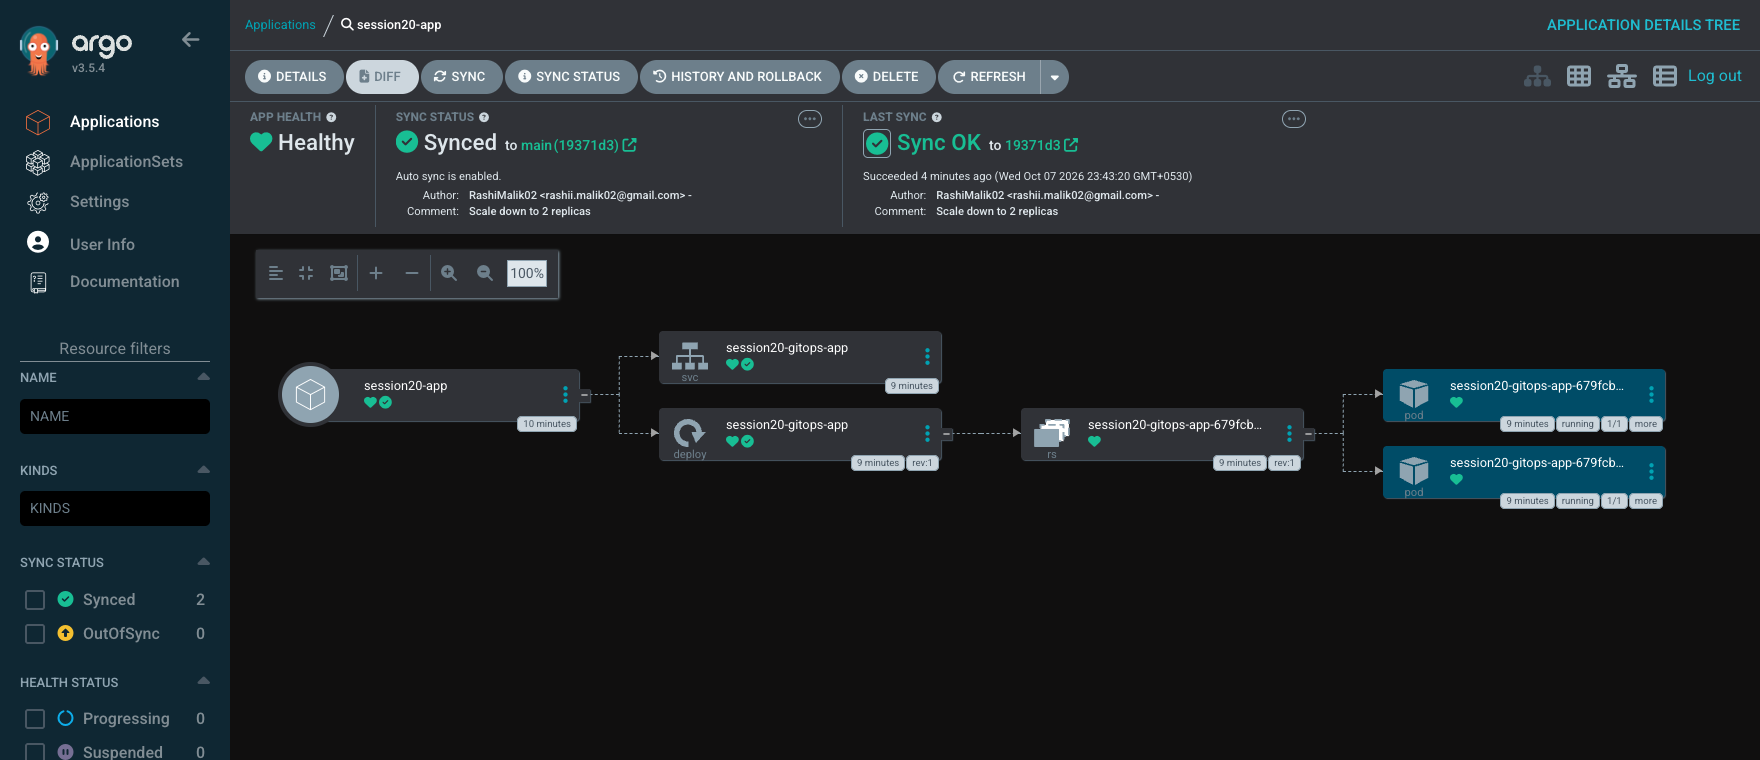
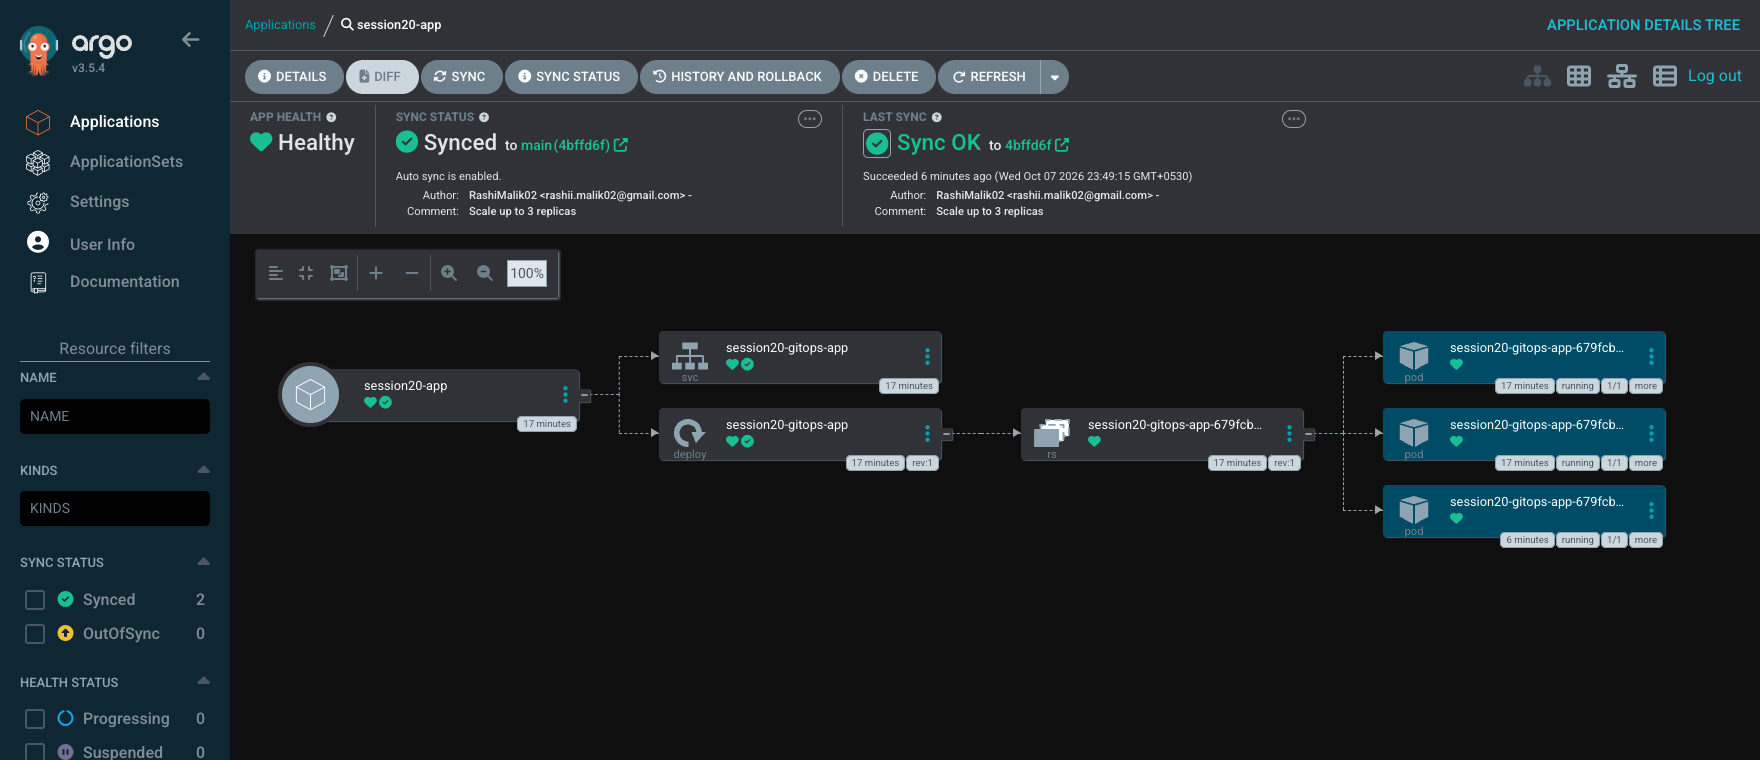
Session 20: complete GitOps and mini project

diff --git a/Assignments/session-20/Readme.md b/Assignments/session-20/Readme.md
@@ -178,11 +178,22 @@ Deployment went from 5 to 2 replicas without any `kubectl` command.
 
 ### Scaling to 3 by Git Push
 
-Second commit pushed; Argo CD picks it up on its next poll the same way.
+Second commit pushed, and Argo CD applied it on a later poll the same way. Its sync history lines
+up with the Git log: every sync is one commit, deployed a few minutes after it was pushed
+(commit times are in IST, sync times in UTC).
 
 ![scale to 3](./Screenshots/img_21.png)
 
 ![argocd after sync](./Screenshots/img_21b.png)
+
+### Clean Up
+
+Deleting the Application did **not** delete the Deployment and Service it created. The
+Application has no `resources-finalizer.argocd.argoproj.io` finalizer, so Argo CD just stops
+managing them. I removed them by deleting the namespace. With the finalizer, deleting the
+Application would also delete everything it deployed.
+
+![cleanup](./Screenshots/img_22.png)
 
 ## 8. Mini Project
 
@@ -194,11 +205,60 @@ https://github.com/RashiMalik02/gitops-demo (folder `08-mini-project/app`, Appli
 Git (desired state) -> Argo CD (reconciler) -> Kubernetes (actual state)
 ```
 
-Steps: apply the Application → Argo CD creates the namespace, Deployment and Service → change
-replicas to 3 in Git and push → Argo CD scales to 3 → manually `kubectl scale` to 1 → self-heal
-puts it back to 3 within seconds, because Git still says 3.
+### Cluster and Argo CD
 
-*(Mini-project screenshots are being added.)*
+I reused the same `session20` kind cluster from section 7, which already had Argo CD installed.
+
+![cluster and argocd](./Screenshots/img_23.png)
+
+### Application Synced
+
+After applying the Application it stayed at `Unknown` and nothing was created.
+
+![application applied](./Screenshots/img_24.png)
+
+**Troubleshooting:** the Application's condition was a `ComparisonError`. The repo-server couldn't
+reach GitHub because the DNS lookup for `github.com` timed out. CoreDNS's logs showed *its*
+upstream (Docker Desktop's DNS at 192.168.65.254) timing out, so the problem was outside the
+cluster, not in Argo CD. A test Pod could resolve `github.com` again a minute later, so it was a
+transient upstream timeout. Instead of waiting for the next poll, I asked Argo CD to retry with
+the `argocd.argoproj.io/refresh=hard` annotation, and it synced straight away.
+
+![dns troubleshooting](./Screenshots/img_24b.png)
+
+![synced resources](./Screenshots/img_24c.png)
+
+![argocd mini app tree](./Screenshots/img_24d.png)
+
+### Git Change: 3 Replicas
+
+Changed `replicas: 2` → `3` in `08-mini-project/app/deployment.yaml`, committed and pushed.
+About 5 minutes later Argo CD synced commit `90450cf` and the Deployment went to 3/3. No `kubectl`
+was involved.
+
+![git change to 3 replicas](./Screenshots/img_25.png)
+
+### Self-Healing
+
+A manual `kubectl scale --replicas=1` was reverted by Argo CD back to 3 within about a second,
+because `selfHeal: true` treats the live cluster differing from Git as drift. The events show the
+scale-down to 1 and the immediate scale-up to 3. The only way to really change the replica count
+is to change Git.
+
+![self healing](./Screenshots/img_26.png)
+
+### Observing the System
+
+Three healthy Pods serving requests (nginx access log), the Application `Synced`/`Healthy`, its
+sync history (one entry per Git commit), and every managed resource marked `Synced`.
+
+![observing](./Screenshots/img_27.png)
+
+![argocd final state](./Screenshots/img_27b.png)
+
+### Clean Up
+
+![cleanup mini project](./Screenshots/img_28.png)
 
 ## Key Learnings
 
